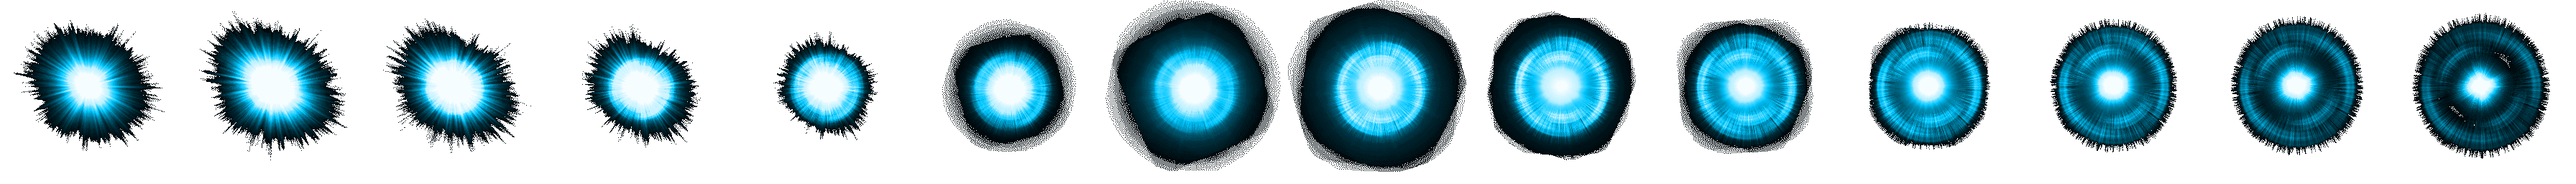
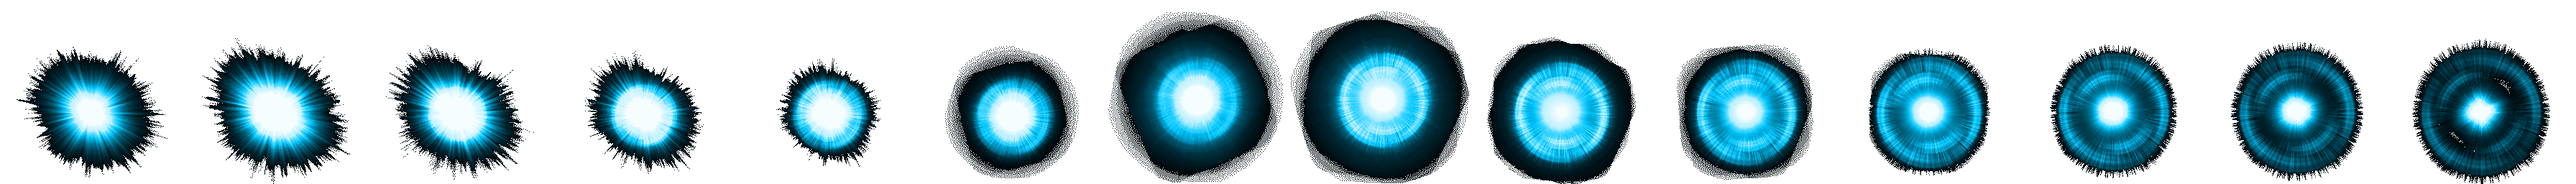
animation for health/attack

diff --git a/src/entity/Player/Player.cpp b/src/entity/Player/Player.cpp
@@ -28,6 +28,7 @@ void Player::update(float dt) {
   if (worldStats.animation) {
     worldStats.animation->update(dt);
   }
+  updateFloatingTexts(dt);
 }
 
 void Player::render(float alpha) {
@@ -55,11 +56,15 @@ void Player::render(float alpha) {
   Rectangle dest = {worldStats.position.x - (absW / 2.0f),
                     worldStats.position.y - absH, absW, absH};
 
+  Color tint = (runtimeStats.iframeTimer > 0.0f) ? RED : WHITE;
+
   DrawTexturePro(worldStats.animation->getTexture(), source, dest, {0, 0},
-                 0.0f, WHITE);
+                 0.0f, tint);
 
   // Debug hitbox
   DrawRectangleLinesEx(getHitbox(), 1.0f, RED);
+  
+  renderFloatingTexts();
 }
 
 void Player::changeState(PlayerState &state) {
@@ -86,8 +91,10 @@ void Player::useSkill(const std::string &skillname) {
   auto it = skillList.find(skillname);
   if (it != skillList.end() && it->second) {
     ISkill *skill = it->second.get();
-    if (runtimeStats.mana < skill->getManaCost())
+    if (runtimeStats.mana < skill->getManaCost()) {
+      addFloatingText("Not enough mana", BLUE, {0, 0}, 0.3);
       return;
+    }
     
     // Prevent interrupting a skill with another skill (or the same one)
     if (currentState == &skillState) {
@@ -236,9 +243,14 @@ void Player::reduceMana(float cost) {
 }
 
 void Player::increaseMana(float cost) {
-  runtimeStats.mana += static_cast<int>(cost);
-  if (runtimeStats.mana > baseStats.maxMana)
-    runtimeStats.mana = baseStats.maxMana;
+  runtimeStats.manaAccumulator += cost;
+  if (runtimeStats.manaAccumulator >= 1.0f) {
+    int manaToAdd = static_cast<int>(runtimeStats.manaAccumulator);
+    runtimeStats.mana += manaToAdd;
+    runtimeStats.manaAccumulator -= manaToAdd;
+    if (runtimeStats.mana > baseStats.maxMana)
+      runtimeStats.mana = baseStats.maxMana;
+  }
 }
 
 // --- Swim & Climb helpers ---
@@ -296,6 +308,8 @@ void Player::takeDamage(int damage, float knockbackDirX) {
     return;
   runtimeStats.health -= damage;
   runtimeStats.iframeTimer = 1.0f; // 1 second of invincibility
+  
+  addFloatingText(std::to_string(damage), GREEN, {0, 0}, 0.5f);
   
   // Apply a small knockback upwards and horizontally
   runtimeStats.velocity.y = -200.0f;

diff --git a/src/entity/Entity.cpp b/src/entity/Entity.cpp
@@ -185,3 +185,38 @@ void Entity::updatePhysicsSimple(float groundY, float dt) {
         runtimeStats.isGrounded = false;
     }
 }
+
+void Entity::addFloatingText(const std::string& text, Color color, Vector2 offset, float lifetime) {
+    FloatingText ft;
+    ft.text = text;
+    ft.position = {worldStats.position.x + offset.x, worldStats.position.y - runtimeStats.physicsBox.y + offset.y};
+    ft.velocity = {0, -50.0f}; // Float upwards
+    ft.color = color;
+    ft.lifetime = lifetime;
+    ft.maxLifetime = lifetime;
+    worldStats.floatingTexts.push_back(ft);
+}
+
+void Entity::updateFloatingTexts(float dt) {
+    for (auto it = worldStats.floatingTexts.begin(); it != worldStats.floatingTexts.end(); ) {
+        it->position.x += it->velocity.x * dt;
+        it->position.y += it->velocity.y * dt;
+        it->lifetime -= dt;
+        if (it->lifetime <= 0.0f) {
+            it = worldStats.floatingTexts.erase(it);
+        } else {
+            ++it;
+        }
+    }
+}
+
+void Entity::renderFloatingTexts() {
+    for (const auto& ft : worldStats.floatingTexts) {
+        // Fade out
+        float alpha = ft.lifetime / ft.maxLifetime;
+        Color c = ft.color;
+        c.a = static_cast<unsigned char>(255 * alpha);
+        
+        DrawText(ft.text.c_str(), static_cast<int>(ft.position.x), static_cast<int>(ft.position.y), 10, c);
+    }
+}

diff --git a/include/entity/Entity.h b/include/entity/Entity.h
@@ -22,6 +22,8 @@ public:
   virtual void update(float dt) = 0;
   virtual void render(float alpha) = 0;
 
+  void addFloatingText(const std::string& text, Color color, Vector2 offset = {0, -20}, float lifetime = 1.0f);
+
   virtual bool getIsActive() const { return true; }
   virtual void deactivate() {}
 
@@ -48,6 +50,11 @@ public:
 
   virtual void dropThrough();
 
+protected:
+  void updateFloatingTexts(float dt);
+  void renderFloatingTexts();
+
+public:
   // Accessors — const versions for read-only
   const CharacterBaseStats &getBaseStats() const { return baseStats; }
   const CharacterRuntimeStats &getRuntimeStats() const { return runtimeStats; }

diff --git a/include/entity/Player/CharacterStats.h b/include/entity/Player/CharacterStats.h
@@ -2,7 +2,9 @@
 #include "Animation.h"
 #include <string>
 #include <cstdint>
+#include <vector>
 #include "raylib.h"
+#include "FloatingText.h"
 
 struct CharacterBaseStats {
     std::string name = "Default";
@@ -23,6 +25,7 @@ struct CharacterBaseStats {
 struct CharacterRuntimeStats {
     int health = 100;
     int mana   = 0;
+    float manaAccumulator = 0.0f;
 
     Vector2 physicsBox = {0.0f, 0.0f};
     Vector2 velocity = {0.0f, 0.0f}; 
@@ -42,5 +45,7 @@ struct CharacterWorldStats {
 
     Vector2 previousPos = {0.0f, 0.0f};
     Vector2 position = {0.0f, 0.0f};
+
+    std::vector<FloatingText> floatingTexts;
 };
 

diff --git a/src/entity/Player/PlayerFactory.cpp b/src/entity/Player/PlayerFactory.cpp
@@ -122,6 +122,8 @@ std::unique_ptr<Player> PlayerFactory::createPlayer(const std::string &charName,
     auto& skillJson = charData["skills"][skillName];
     int atk = skillJson.value("attack", 0);
     int def = skillJson.value("defense", 0);
+    float manaCost = skillJson.value("manaCost", skill->getManaCost()); // fallback to default cost if not in JSON
+    skill->setManaCost(manaCost);
     Rectangle box = {
         skillJson["box"].value("offsetX", 0.0f),
         skillJson["box"].value("offsetY", 0.0f),

diff --git a/src/states/World02State.cpp b/src/states/World02State.cpp
@@ -32,6 +32,8 @@ World02State::World02State(std::string selectedChar)
                              InputType::PRESSED);
       player1Handler.bindKey(KEY_Q, std::make_unique<UseSkillCommand>("Block"),
                              InputType::PRESSED);
+      player1Handler.bindKey(KEY_U, std::make_unique<UseSkillCommand>("SpecialAttack"),
+                             InputType::PRESSED);
     }
 
 

diff --git a/include/entity/Skill/ISkill.h b/include/entity/Skill/ISkill.h
@@ -31,6 +31,7 @@ public:
     virtual void execute(Player& player) = 0;
 
     float getManaCost() const { return manaCost; }
+    void setManaCost(float mn) { manaCost = mn; }
     float getDuration() const { return duration; }
     const std::string& getAnimationName() const { return animationName; }
     const std::string& getNextComboSkillName() const { return nextComboSkillName; }

diff --git a/src/entity/Player/PlayerIdleState.cpp b/src/entity/Player/PlayerIdleState.cpp
@@ -12,7 +12,7 @@ void PlayerIdleState::onExit() {
 }
 
 void PlayerIdleState::update(float dt) {
-    player.increaseMana(60.0f * dt);
+    player.increaseMana(20.0f * dt); // Regenerate 5 mana per second
 }
 
 void PlayerIdleState::onMoveLeft() {

diff --git a/src/entity/Player/PlayerDieState.cpp b/src/entity/Player/PlayerDieState.cpp
@@ -4,7 +4,7 @@
 PlayerDieState::PlayerDieState(Player& player) : PlayerState(player) {}
 
 void PlayerDieState::onEnter() {
-    player.playAnimation("die");
+    player.playAnimation("die", false);
 }
 
 void PlayerDieState::onExit() {

diff --git a/include/entity/FloatingText.h b/include/entity/FloatingText.h
@@ -1,0 +1,12 @@
+#pragma once
+#include <string>
+#include "raylib.h"
+
+struct FloatingText {
+    std::string text;
+    Vector2 position;
+    Vector2 velocity;
+    Color color;
+    float lifetime;
+    float maxLifetime;
+};
